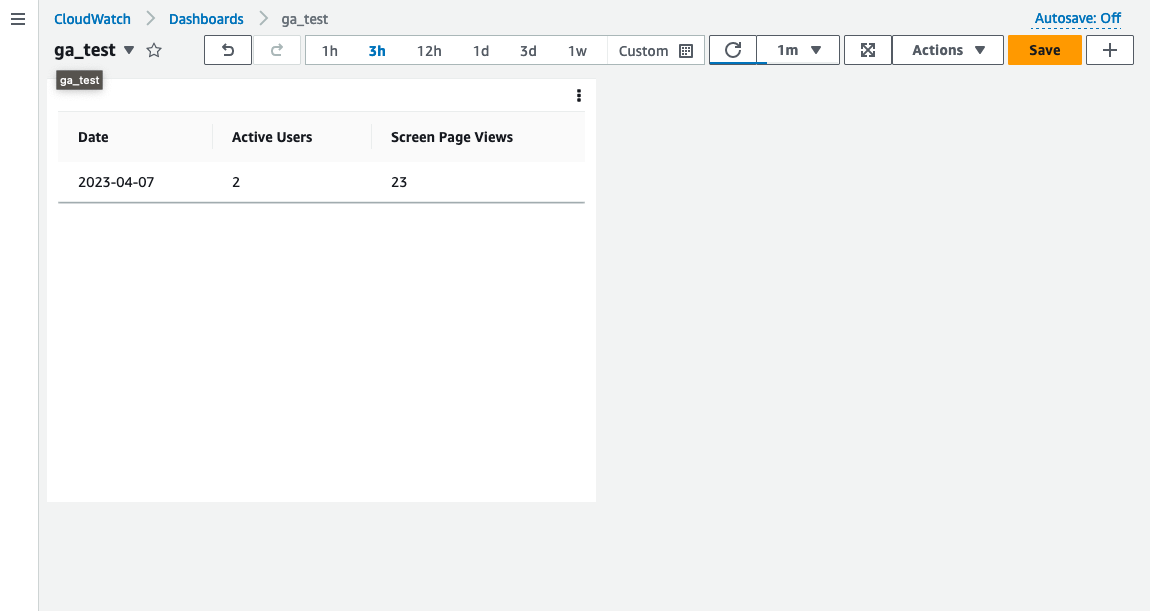
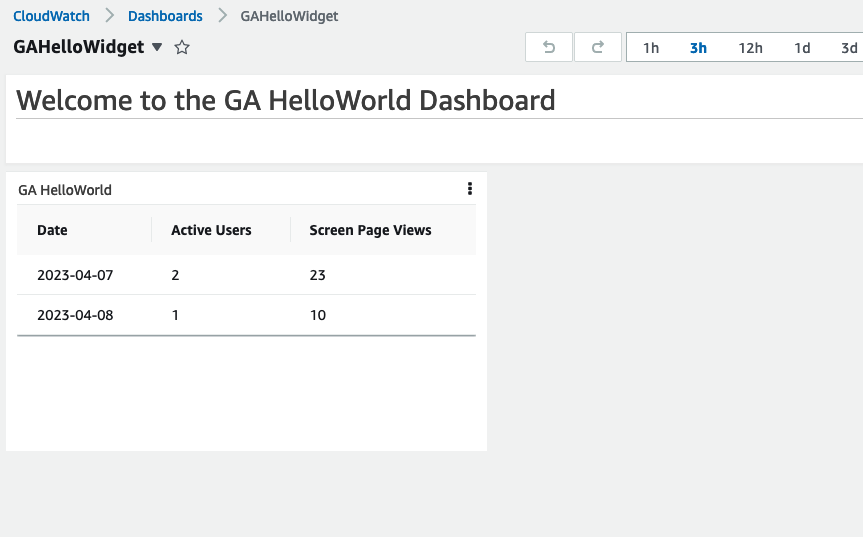
extended Readme; added creation of CloudWatch Dashboard

diff --git a/iac/dashboard_stack.py b/iac/dashboard_stack.py
@@ -1,0 +1,26 @@
+from aws_cdk import (
+    Stack,
+    aws_cloudwatch as cloudwatch,
+    aws_lambda as _lambda
+)
+from constructs import Construct
+
+
+class DashboardStack(Stack):
+    def __init__(self, scope: Construct, id: str, ga_lambda: _lambda.Function, **kwargs) -> None:
+        super().__init__(scope, id, **kwargs)
+
+        # Create a CloudWatch Dashboard
+        dashboard = cloudwatch.Dashboard(self, "GADemoWidget",
+                                         dashboard_name="GAHelloWidget")
+
+        # Add widgets to the dashboard
+        dashboard.add_widgets(
+            cloudwatch.TextWidget(markdown="# Welcome to the GA HelloWorld Dashboard", width=24),
+            cloudwatch.CustomWidget(
+                function_arn=ga_lambda.function_arn,
+                title="GA HelloWorld",
+                width=8
+            )
+        )
+

diff --git a/iac/analytics_lambda_stack.py b/iac/analytics_lambda_stack.py
@@ -15,7 +15,7 @@ class AnalyticsLambdaStack(Stack):
         # Retrieve the GCP credentials secret
         gcp_credentials_secret = sm.Secret.from_secret_name_v2(self, "GCPCredentialsSecret", "hello_ga_secret_key")
 
-        ga_lambda = _lambda.DockerImageFunction(
+        self.ga_lambda = _lambda.DockerImageFunction(
             self, "ga_hello_world",
             function_name="GA_hello_world",
             code=_lambda.DockerImageCode.from_image_asset(
@@ -27,4 +27,6 @@ class AnalyticsLambdaStack(Stack):
         )
 
         # Grant read permission for the secret to the Lambda function
-        gcp_credentials_secret.grant_read(ga_lambda)
+        gcp_credentials_secret.grant_read(self.ga_lambda)
+
+        self.ga_lambda.function_arn

diff --git a/iac/iac_stack.py b/iac/iac_stack.py
@@ -6,6 +6,7 @@ from aws_cdk import (
 from constructs import Construct
 
 from iac.analytics_lambda_stack import AnalyticsLambdaStack
+from iac.dashboard_stack import DashboardStack
 
 
 class IacStack(Stack):
@@ -14,3 +15,5 @@ class IacStack(Stack):
         super().__init__(scope, construct_id, **kwargs)
 
         lambda_stack = AnalyticsLambdaStack(self, "analytics_lambda_stack")
+
+        dashboard_stack = DashboardStack(self, "dashboard_stack", lambda_stack.ga_lambda)

diff --git a/README.md b/README.md
@@ -9,6 +9,11 @@ GA credentials are stored in AWS SecretsManager (hardcoded).
 
 [Report example](./docs/html_report_example.html)
 
+## Prerequisites
+- website with installed google analytics V4 property
+- credentials for Service account in GCP, which has access to Google Analytics property (See Appendix A for dtails)
+- credentials(json key) are store in AWS Secrets Manager. Secret name hardcoded in `src/index.py`
+
 ## Setup
 Prepare env and install dependencies
 ```
@@ -28,3 +33,22 @@ Deploy (given aws credentials already setup)
 ```shell
 cdk deploy
 ```
+
+## Appendix A (prerequisites):
+
+1. Set up a Google API project:
+   1. Go to the Google Cloud Console: https://console.cloud.google.com/
+   2. Create a new project or select an existing one. 
+   3. Navigate to the "APIs & Services" dashboard, and click on "ENABLE APIS AND SERVICES."
+   4. Search for "Google Analytics Reporting API" and enable it.
+2. Create credentials for your Python application:
+   1. In the "APIs & Services" dashboard, click on "Credentials."
+   2. Click "CREATE CREDENTIALS" and select "Service account."
+   3. Fill in the required details, and click "CREATE AND CONTINUE."
+   4. Grant the necessary permissions (e.g., "Editor") and click "CONTINUE."
+   5. Click "DONE" to finish creating the service account. 
+   6. Click on the newly created service account, navigate to the "KEYS" tab, and click "ADD KEY." Choose "JSON" and download the JSON key file. Keep this file secure, as it contains sensitive information. 
+3. Add the service account email to your Google Analytics account:
+   1. Log in to your Google Analytics account: https://analytics.google.com/
+   2. Go to the "Admin" panel (the gear icon in the lower-left corner). 
+   3. In the "Account" column, click "Account User Management" and add the service account email with "Read & Analyze" permissions. 
